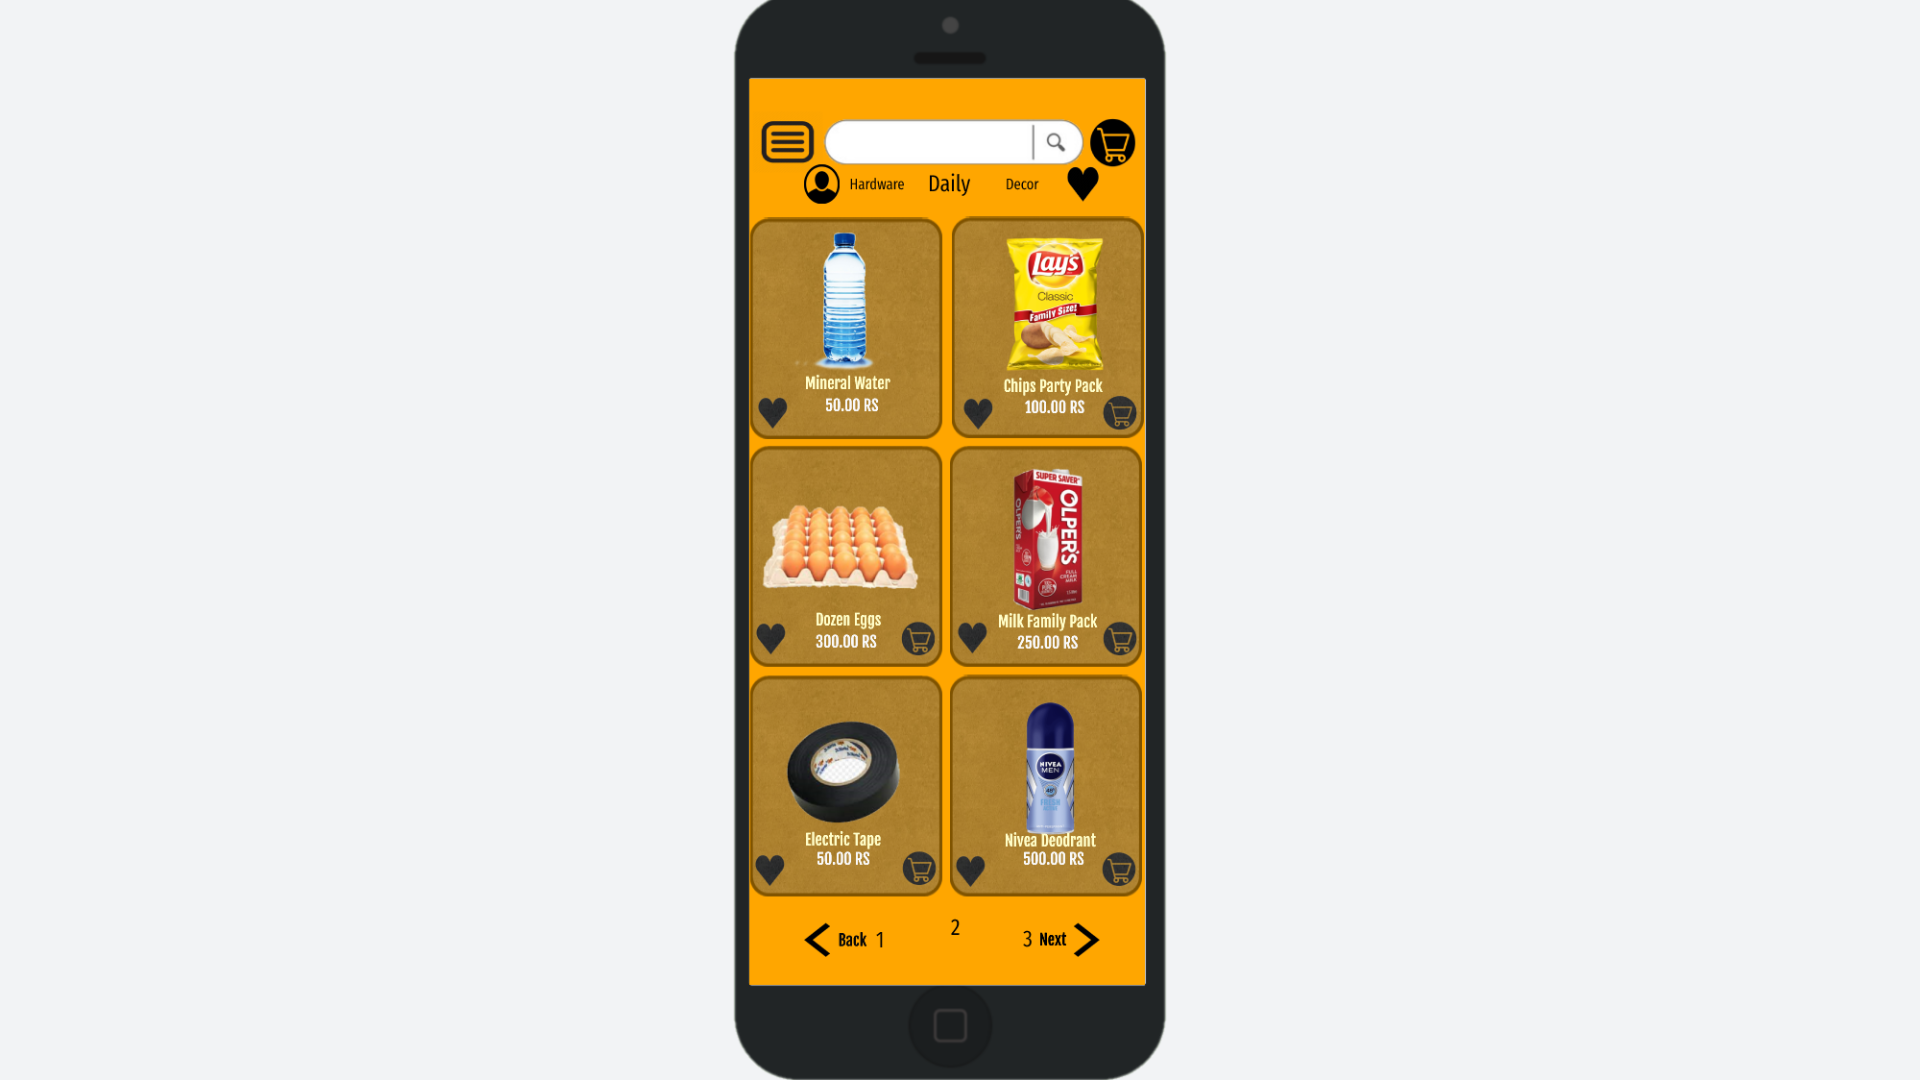
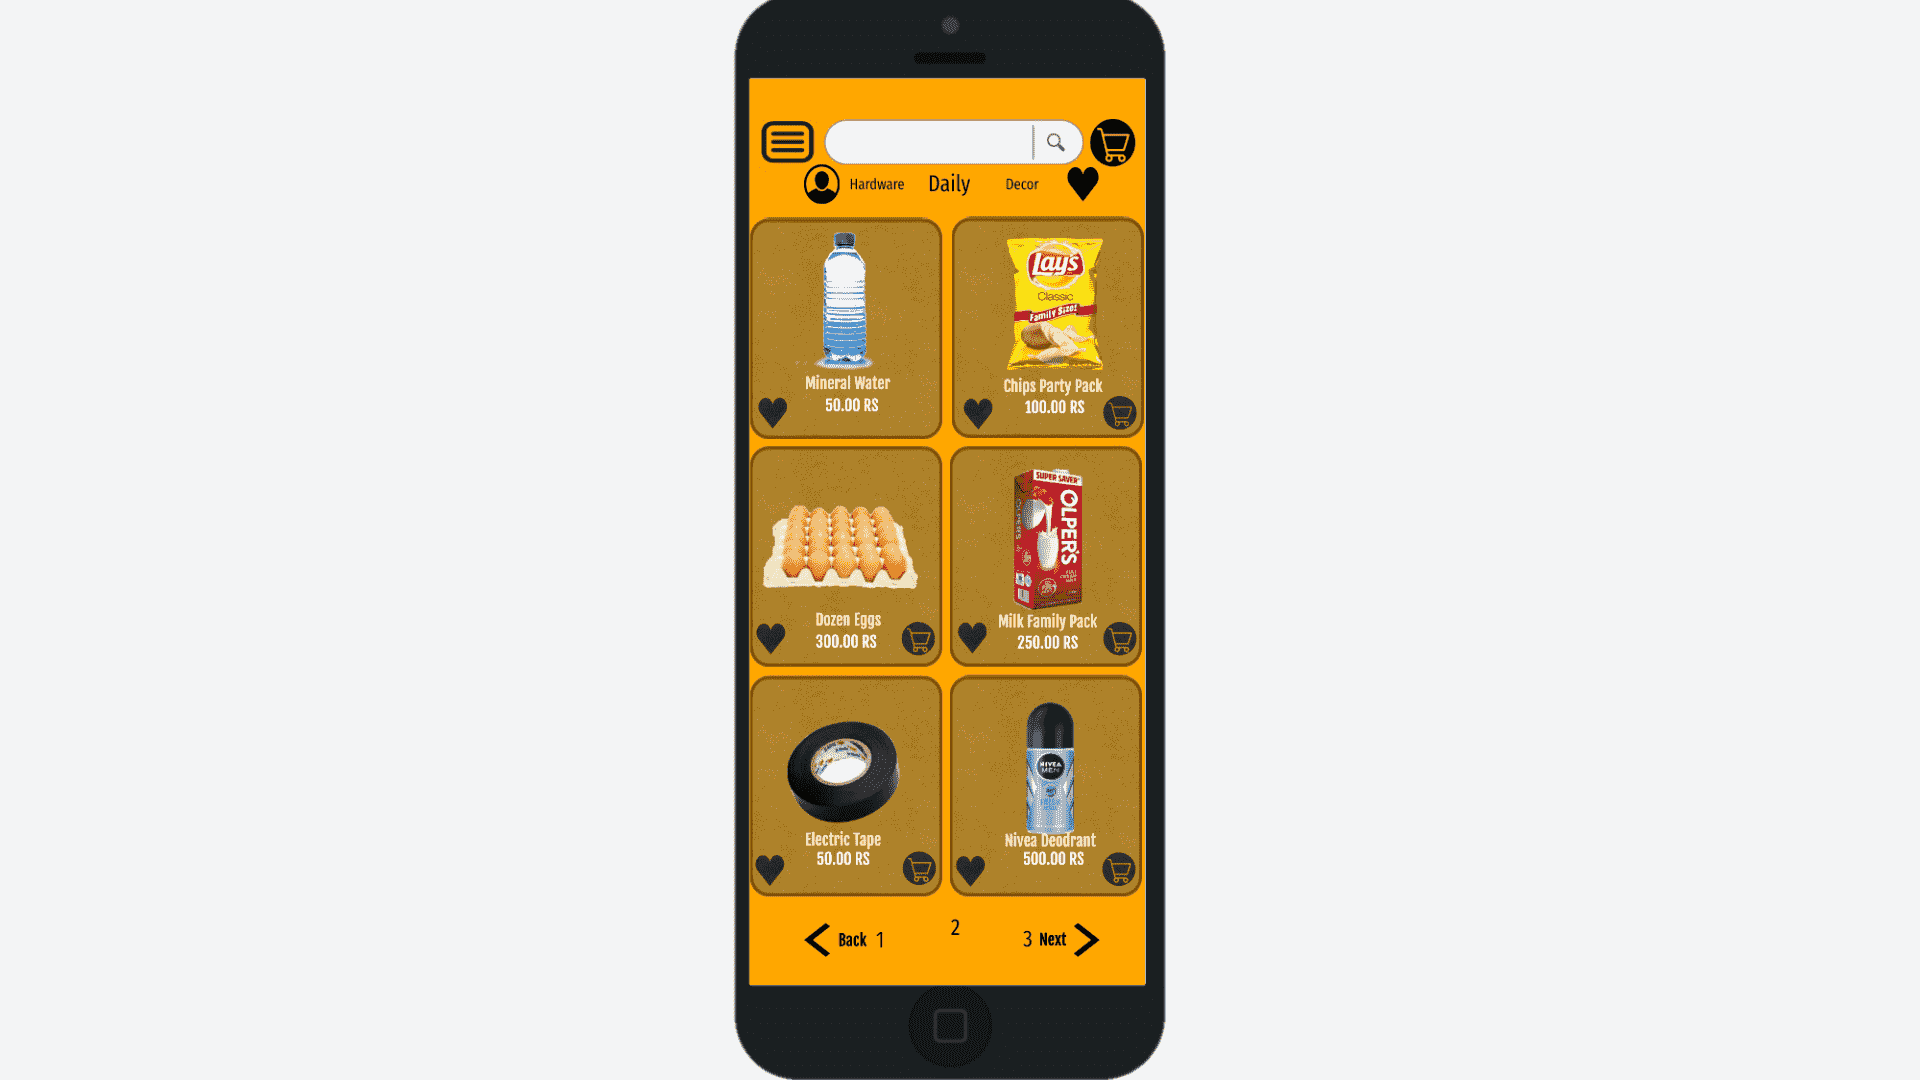
Images Downsized 02/20/2022
Images Downsized.
Footer Updated
Portfolio Updated
App.css updated.

diff --git a/portfolio-project/src/components/Footer.js b/portfolio-project/src/components/Footer.js
@@ -1,13 +1,9 @@
 import React from 'react';
 import {
-    FacebookShareButton,
     FacebookIcon,
     TwitterShareButton,
     TwitterIcon,
-    LinkedinShareButton,
-    LinkedinIcon,
-    RedditShareButton,
-    RedditIcon
+    LinkedinIcon
 } from "react-share";
 
 const Footer = () => {
@@ -17,7 +13,7 @@ const Footer = () => {
                         <div className="footer-address col-md-6 col-sm-12 ">
                             <div className="d-flex justify-content-center" align="center">
                                 <p>
-                                    Apt B-1002 Alpine Plaza Block 10 Gulistan-e-Johar, Karachi, Pakistan
+                                    Karachi, Pakistan
                                 </p>
                             </div>
 
@@ -26,7 +22,7 @@ const Footer = () => {
                             </div>
 
                             <div className="d-flex justify-content-center">
-                                <p>sohailfarooqi714@gmail.com</p>
+                                <a href="mailto:sohailfarooqi714@gmail.com">sohailfarooqi714@gmail.com</a>
                             </div>
                         </div>
 
@@ -51,37 +47,17 @@ const Footer = () => {
 
                             <div className="social-icons col-md-6 col-sm-12 ">
                                 <div className="d-flex justify-content-center">
-                                        <FacebookShareButton 
-                                         url={""}
-                                         quote={"Software Developer"}
-                                         hashtag="#Dev/Design/Game"
-                                        > 
-                                            <FacebookIcon className="mx-3" size={36} />
-                                        </FacebookShareButton>
-
-                                        <TwitterShareButton 
-                                         url={""}
-                                         quote={"Software Developer"}
-                                         hashtag="#Dev/Design/Game"
-                                        > 
+                                            
+                                            <a href="https://www.facebook.com/sohail.a.faruqui" target="_blank">
+                                                <FacebookIcon className="mx-3" size={36} />
+                                                </a>
+                                            
                                             <TwitterIcon className="mx-3" size={36} />
-                                        </TwitterShareButton>
-
-                                        <LinkedinShareButton 
-                                         url={""}
-                                         quote={"Software Developer"}
-                                         hashtag="#Dev/Design/Game"
-                                        > 
-                                            <LinkedinIcon className="mx-3" size={36} />
-                                        </LinkedinShareButton>
-
-                                        <RedditShareButton 
-                                         url={""}
-                                         quote={"Software Developer"}
-                                         hashtag="#Dev/Design/Game"
-                                        > 
-                                            <RedditIcon className="mx-3" size={36} />
-                                        </RedditShareButton>
+                                       
+                                            <a href="https://www.linkedin.com/in/sohail-farooqi-4271111b2/" target="_blank">
+                                                <LinkedinIcon className="mx-3" size={36} />
+                                            </a>
+                                        
                                 </div>
                                 <p className="pt-3 text-center">
                                     Copyright&copy;

diff --git a/portfolio-project/src/components/Portfolio.js b/portfolio-project/src/components/Portfolio.js
@@ -73,13 +73,13 @@ const Portfolio = () => {
                                         <br></br>
 
                                         <div className="portfolio-description-box row justify-content-center">
-                                            <p align="center" > <b><i>The User interface design sample covers the following:</i></b>
+                                            <p align="center" > <b><i>Manage your Business & Personal ledgers on your phone.</i></b>
 
                                             <br></br>
                                             <br></br>
 
-                                            Lorem ipsum is a placeholder text commonly used to demonstrate the visual form of a document or a typeface without relying on meaningful content. 
-                                            Lorem ipsum may be used as a placeholder before the final copy is available.
+                                            KhataApp is 100% free, safe, and secure application which provides a platform to businesses and individuals to maintain and track their current and historical credit(udhar) book in a simpler manner.
+                                            Digital Pakistan ka Digital KhataApp
                                             </p>
                                             <a href="https://khatapp.com/" target="_blank" className="btn-portfolio" align="center"> Visit </a>
                                         </div>

diff --git a/portfolio-project/src/App.css b/portfolio-project/src/App.css
@@ -652,7 +652,7 @@ nav ul li
 .line
 {
   position: relative;
-  top: -0.87rem;
+  top: -0.81rem;
   width: 0;
   height: 0.125rem;
   background: rgb(255, 255, 255);
